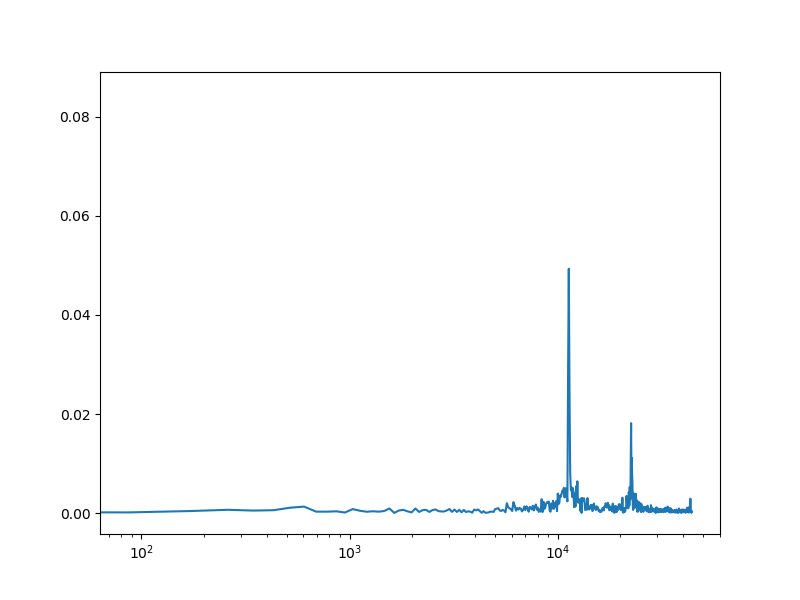
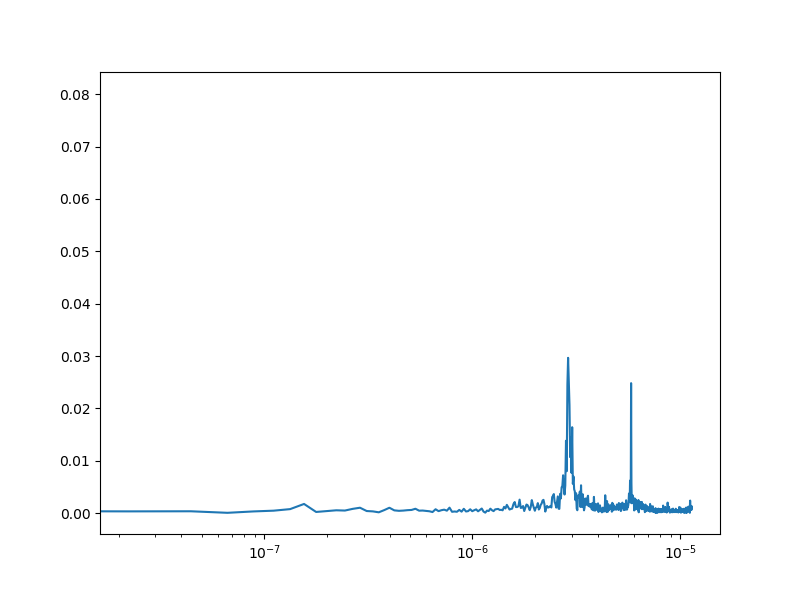
Audio Test 3:

diff --git a/AudioInputTest.py b/AudioInputTest.py
@@ -18,7 +18,7 @@ while(x<1):
 	x = x + 1
 	processed = np.fft.fft(current)
 	print(processed)
-xData = np.linspace(0, 1/((1/sampling)), samples/2)
+xData = np.linspace(0, 1/((2*sampling)), samples/2)
 plt.figure(num=1, figsize=(8,6))
 plt.plot(xData, 2/samples * np.abs(processed[:samples//2]))
 plt.xscale('log')
